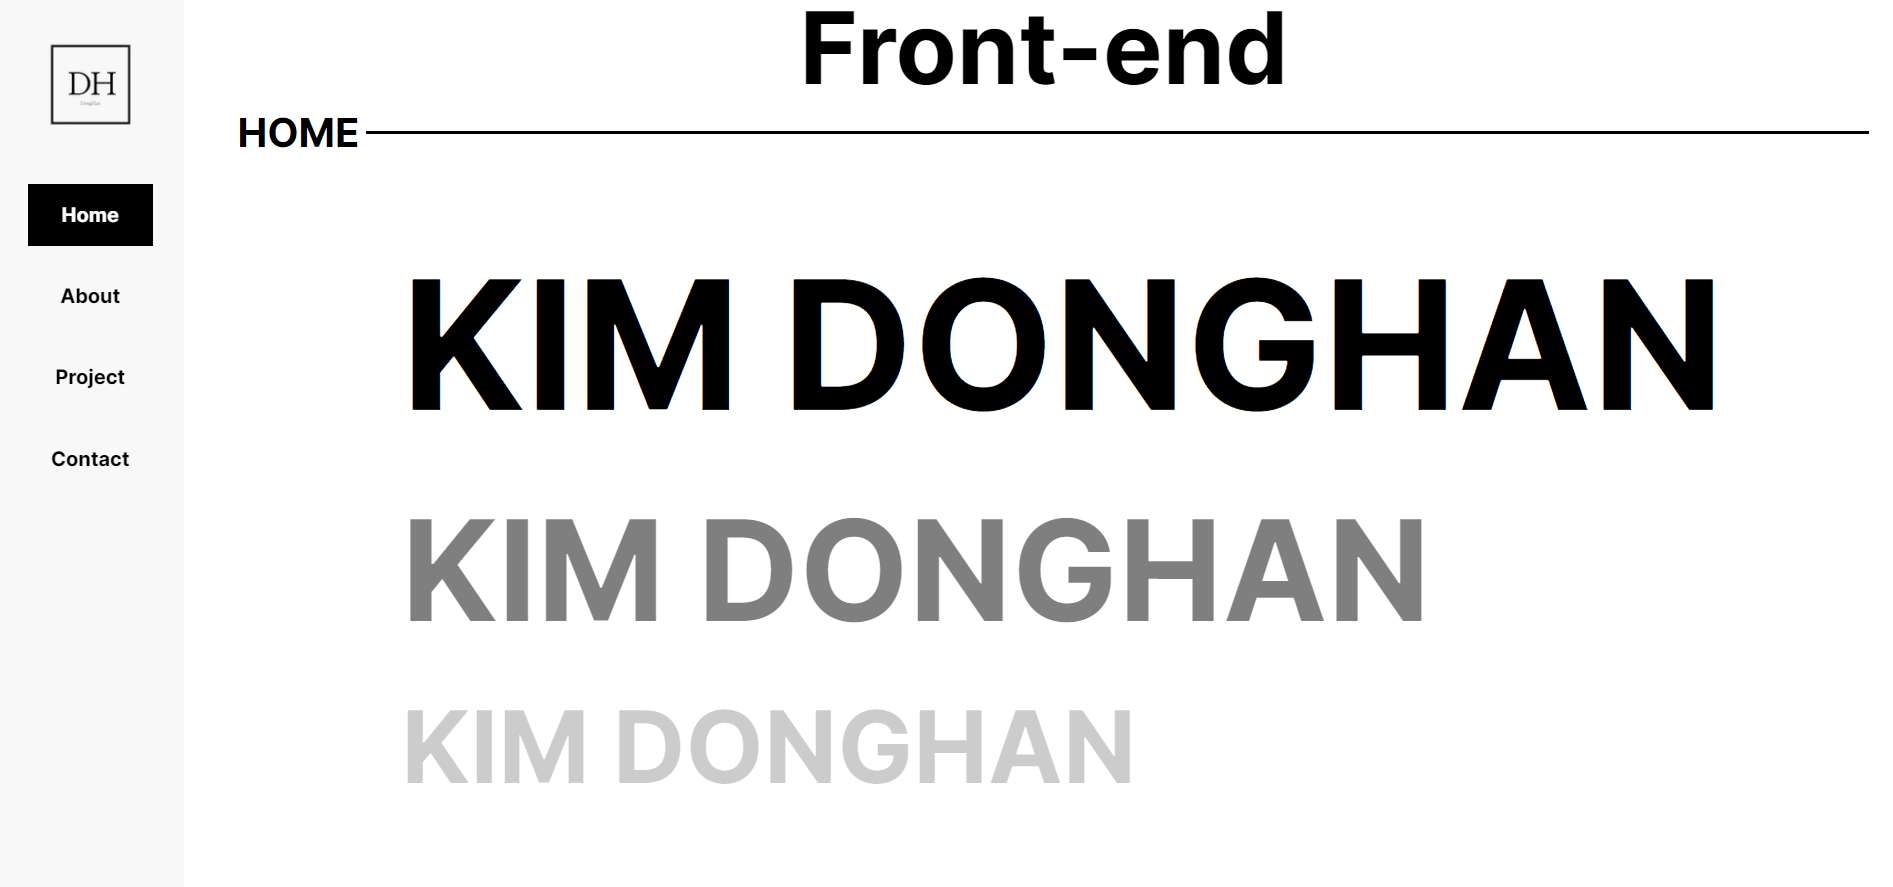
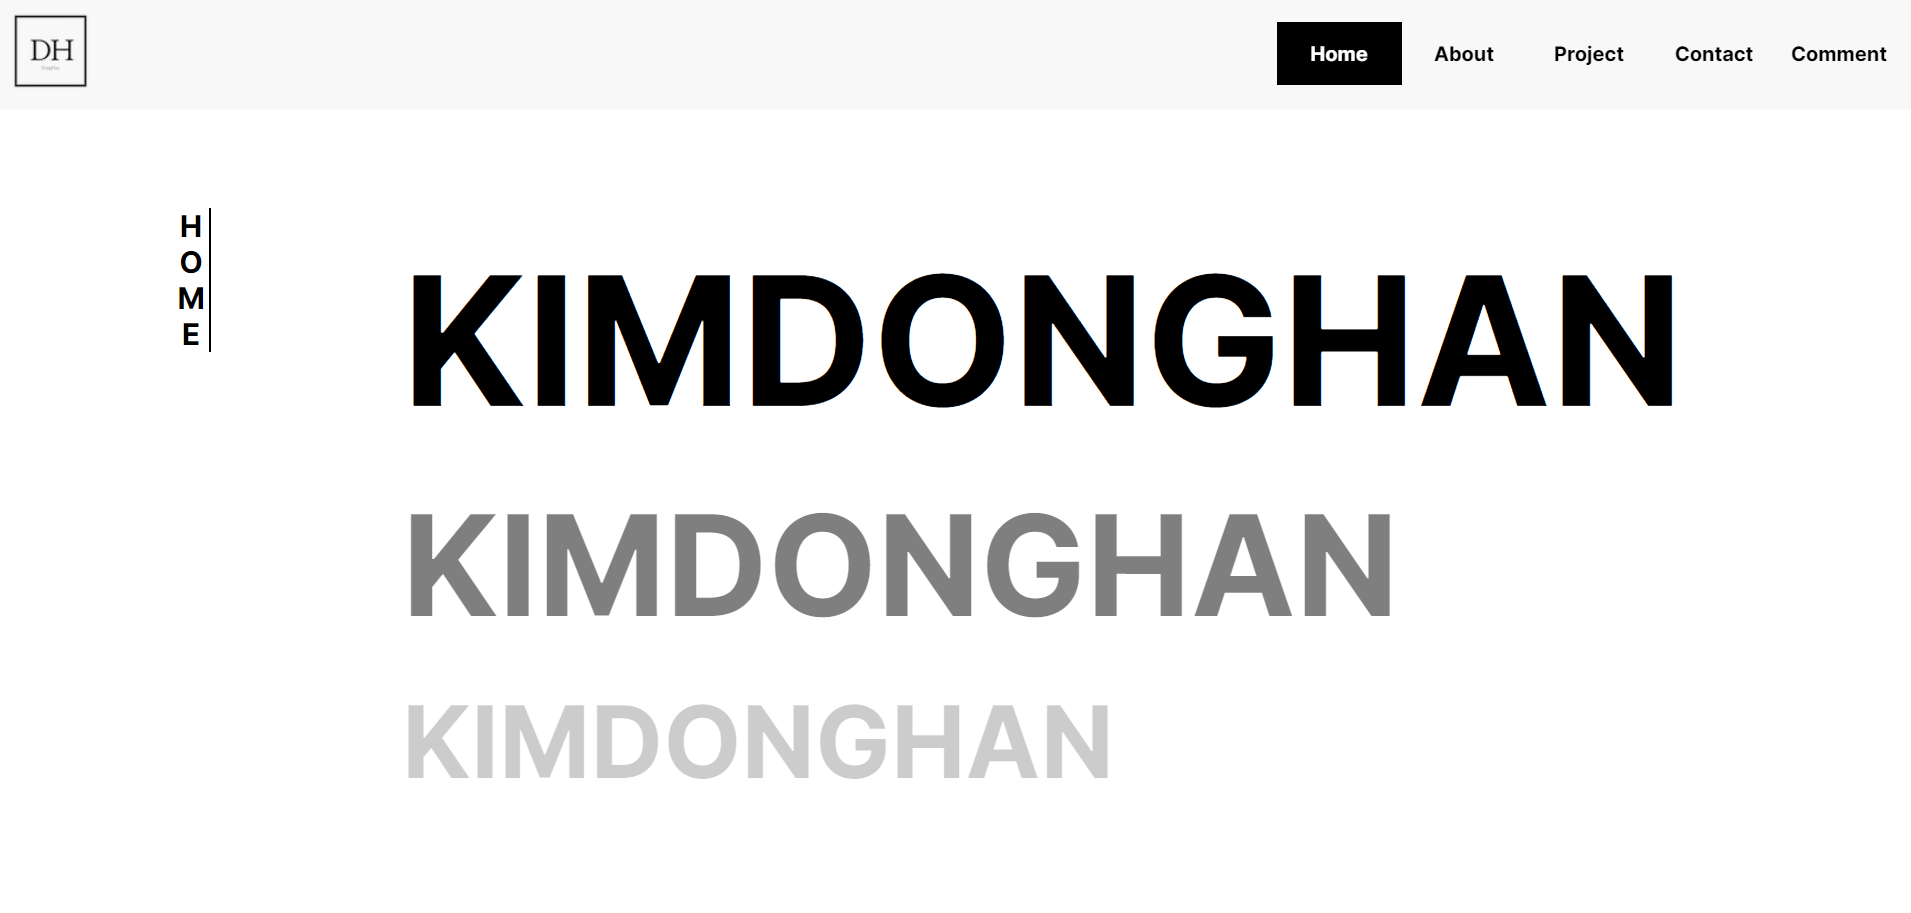
wip: 파비콘 변경

diff --git a/src/app/(pages)/page.module.css b/src/app/(pages)/page.module.css
@@ -17,6 +17,7 @@
 	flex-direction: column;
 	font-weight: bolder;
 	width: 100%;
+	align-items: self-start;
 }
 
 .myNameOne {
@@ -46,14 +47,13 @@
 @media screen and (max-width: 768px) {
 	.myNames {
 		width: 100%;
-		writing-mode: vertical-lr;
-		text-orientation: upright;
 		justify-content: space-between;
 		margin: 0 35px;
+		top: -20px;
 	}
 
 	.myNameOne {
-		font-size: 3rem;
+		font-size: 2rem;
 		position: relative;
 	}
 
@@ -63,6 +63,6 @@
 	}
 
 	.myNameThree {
-		font-size: 1.5rem;
+		font-size: 2rem;
 	}
 }

diff --git a/src/app/(pages)/layout.module.css b/src/app/(pages)/layout.module.css
@@ -3,7 +3,7 @@
 	justify-content: space-between;
 	flex-direction: column;
 	width: 100dvw;
-	height: 100dvh;
+	height: 100%;
 }
 
 .topSection {
@@ -35,11 +35,9 @@
 }
 
 @media screen and (max-width: 800px) {
-	.main {
-		min-height: 100dvh;
-	}
 	.bottomSection {
 		inset: 10px 0 0 0;
+		top: 120px;
 	}
 
 	.leftLayout {

diff --git a/src/app/_component/Nav.module.css b/src/app/_component/Nav.module.css
@@ -2,7 +2,7 @@
 	display: flex;
 	justify-content: space-between;
 	text-align: center;
-	background-color: rgba(222, 222, 222);
+	background-color: rgba(222, 222, 222, 0.2);
 	align-items: center;
 	width: 100dvw;
 	height: 12dvh;
